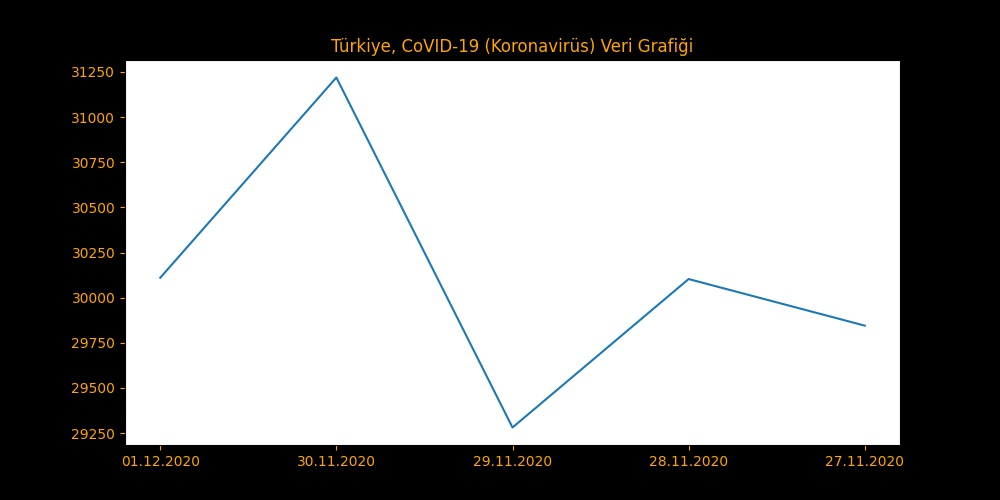
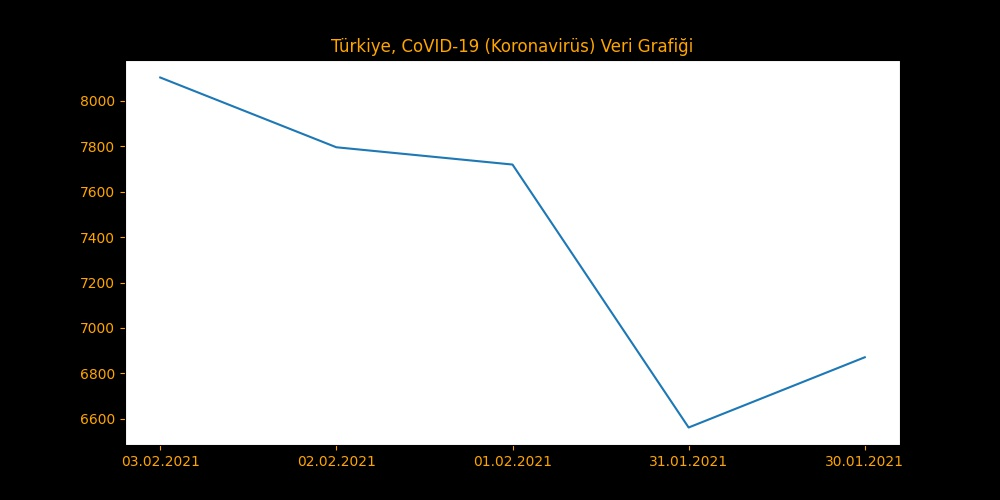
:notebook: 03.02.2021 Update

diff --git a/README_TR.md b/README_TR.md
@@ -11,20 +11,20 @@ Burada, Türkiye'nin [COVID-19 (Koronavirüs) (Hakkında bilgi almak için tıkl
 Not: Bütün veriler, Türkiye Sağlık Bakanlığı'ndan sağlanmaktadır. Eğer veriler güncel değilse, bu büyük ihtimal [devletin web sitesi](https://covid19.saglik.gov.tr) ile alakalıdır. Tamamdır, o zaman başlayalım!
 
 Öncelikle bugünün verileri:
-## :calendar: 01.12.2020 Koronavirüs Verileri:
+## :calendar: 03.02.2021 Koronavirüs Verileri:
 | Veri Tipi         | Bugünün Verileri   | Toplam Veriler     |
 | :---              |    :----           |     :---           |
-| Testler           | 30,110    | 238,151    |
-| Hastalar          | 190   | 14,051   |
-| Tedaviler         | 180,312    | 18,912,626    |
-| Vefatlar          | 4,593| 413,429|
+| Testler           | 8,102    | 1,255,464    |
+| Hastalar          | 117   | 26,396   |
+| Tedaviler         | 148,192    | 30,169,339    |
+| Vefatlar          | 8,314| 1,291,949|
 
 Not: Doğru "Vaka" sayısı 25.11.2020'den itibaren verilmeye başladığı için toplam veriyi doğru hesaplayamıyoruz...
 
-:clock9: `Son Güncelleme: 02.12.2020 19:04`
+:clock9: `Son Güncelleme: 04.02.2021 04:46`
 \
 \
-Ülkemiz ile alakalı gönderilen verilerde bir gariplik var. Devletin verdiği toplam veriler ile günlük veriler arasında uyuşmazlık mevcut. Eğer her günün verisini birbirine eklersek, Bizim hesaplamamız vakalar için **268815** tane daha az çıkıyor. Bu, ölümler için **115** , testler için **140022** ve tedavi olanlar için **4109** . Neden devletimiz böyle bir şey yapıyor anlamıyoruz. YOKSA VERİLER YANLIŞ MI??!?\
+Ülkemiz ile alakalı gönderilen verilerde bir gariplik var. Devletin verdiği toplam veriler ile günlük veriler arasında uyuşmazlık mevcut. Eğer her günün verisini birbirine eklersek, Bizim hesaplamamız vakalar için **1245615** tane daha az çıkıyor. Bu, ölümler için **42** , testler için **107902** ve tedavi olanlar için **1095435** . Neden devletimiz böyle bir şey yapıyor anlamıyoruz. YOKSA VERİLER YANLIŞ MI??!?\
 Neyse tamam, hadi grafikler hakkında konuşalım. Dünle bu günün karşılaştırma grafiği:\
 ![Graph](https://github.com/lysep-corp/COVID-19/blob/master/Graphs/YESTERDAY_COMP_TODAY_TR.jpeg?raw=true)
 

diff --git a/README.md b/README.md
@@ -11,20 +11,20 @@ In this we will gonna show you where is the Turkey going about [COVID-19 Pandemi
 Note: All the data coming from Türk Ministery of Health's public website. If datas are not up-to-date, probably this is about the [goverment's website](https://covid19.saglik.gov.tr) if our server's are not die. Okey, Let's start than!
 
 First today's datas:
-## :calendar: 01.12.2020 Corona virus Datas:
+## :calendar: 03.02.2021 Corona virus Datas:
 | Data Type         | Today's Datas      | All Time Data      |
 | :---              |    :----           |     :---           |
-| Tests             | 180,312    | 18,912,626    |
-| Cases             | 30,110    | 238,151    |
-| Cures             | 4,593| 413,429|
-| Deaths            | 190   | 14,051   |
+| Tests             | 148,192    | 30,169,339    |
+| Cases             | 8,102    | 1,255,464    |
+| Cures             | 8,314| 1,291,949|
+| Deaths            | 117   | 26,396   |
 
 Note: Correct "Cases" data started on 25.11.2020. So we can't count all time data correctly...
 
-:clock9: `Last Update: 02.12.2020 19:04`
+:clock9: `Last Update: 04.02.2021 04:46`
 \
 \
-There is something weird going on about our country's data. There is a little bit difference about goverment's all time data and daily datas. If we gonna add everyday's data to each other, Our calculation is **268815** less than the goverment's case calculation. It's **115** for deaths, **140022** for tests and **4109** for cured person count. We don't know why our country is doing that. ARE THE DATAS WRONG??!?\
+There is something weird going on about our country's data. There is a little bit difference about goverment's all time data and daily datas. If we gonna add everyday's data to each other, Our calculation is **1245615** less than the goverment's case calculation. It's **42** for deaths, **107902** for tests and **1095435** for cured person count. We don't know why our country is doing that. ARE THE DATAS WRONG??!?\
 Okey, let's talk about the graphs. Here is today's data is compare with yesterdays:\
 ![YESTERDAY_COMP_TODAY_EN](https://github.com/lysep-corp/COVID-19/blob/master/Graphs/YESTERDAY_COMP_TODAY_EN.jpeg?raw=true)
 
